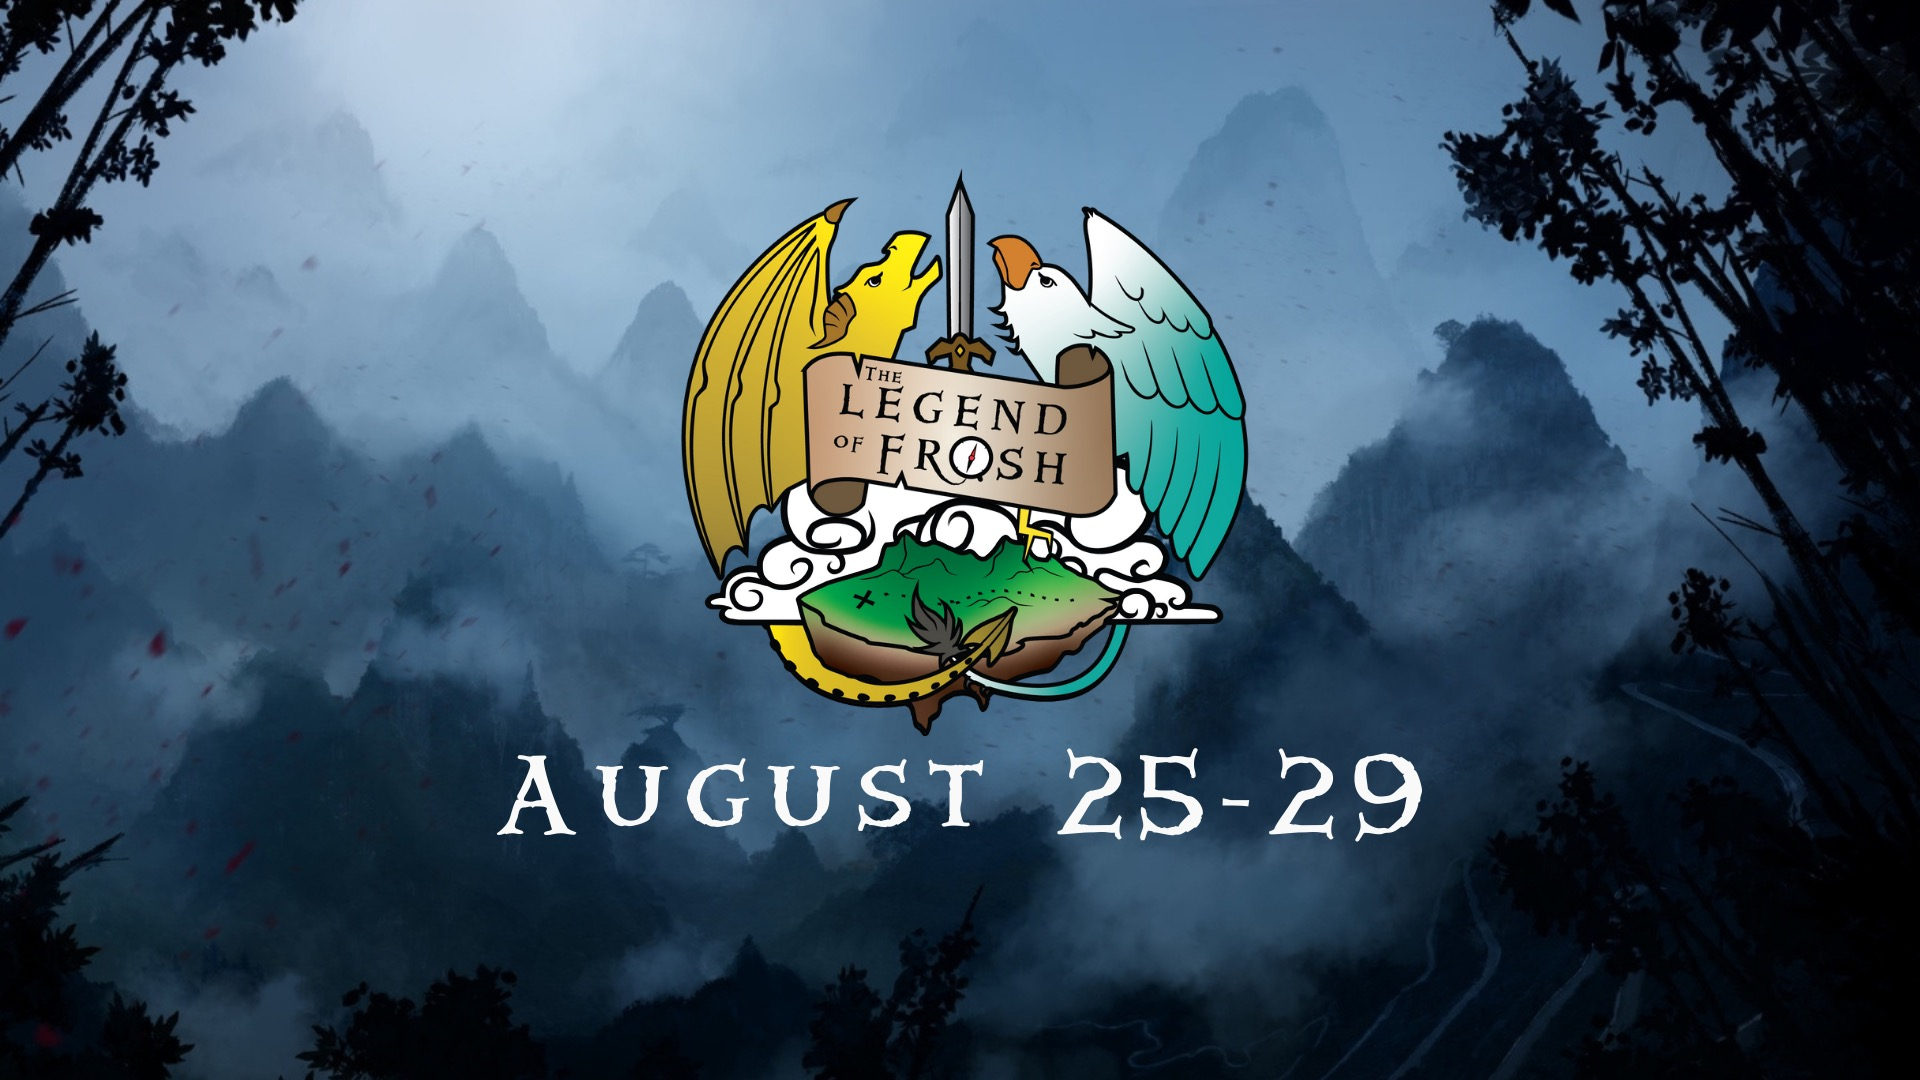
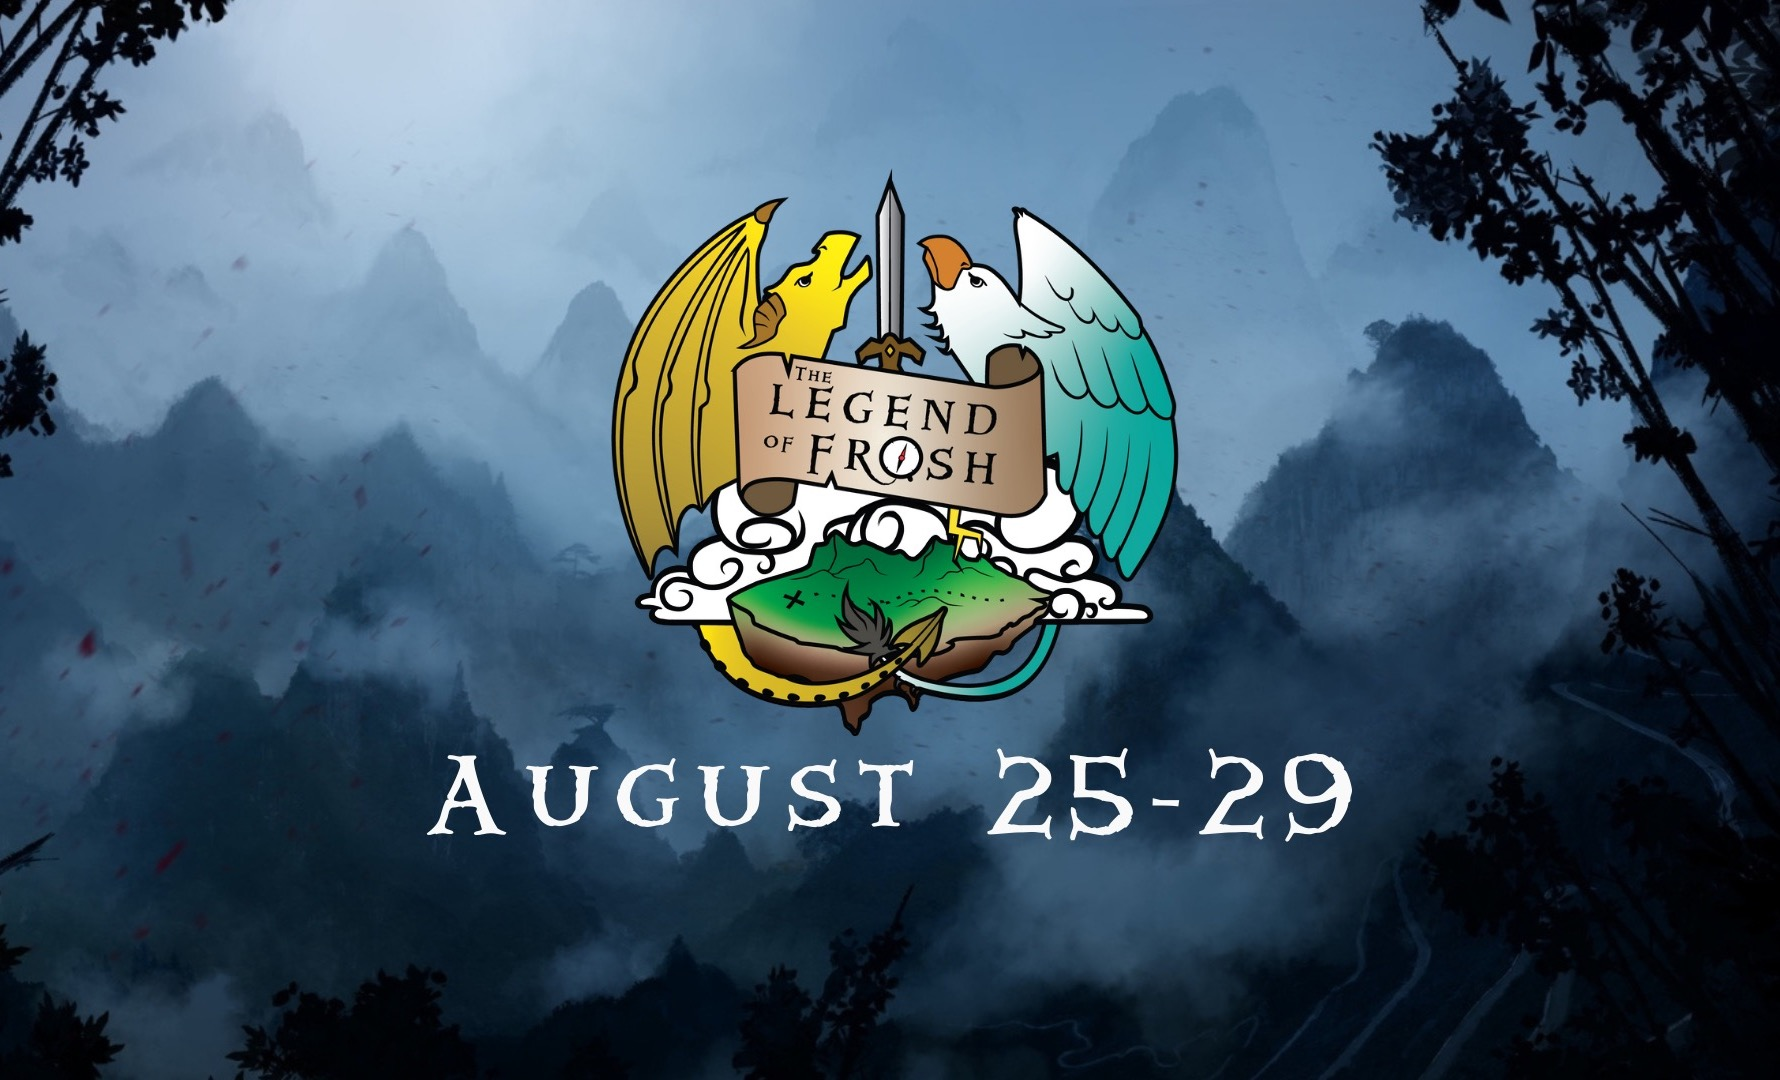
home page header image

diff --git a/src/pages/home/index.jsx b/src/pages/home/index.jsx
@@ -5,7 +5,7 @@ import { WHAT_IS_FROSH } from "../../constants/home";
 import Header from "../../images/header_welcome.jpeg";
 import SponsorImage from "../../images/sponsors.png";
 
-const HEADER_HEIGHT = "500px";
+const HEADER_HEIGHT = "max(460px, 45vw)";
 
 export default function Home() {
   const theme = useTheme();
